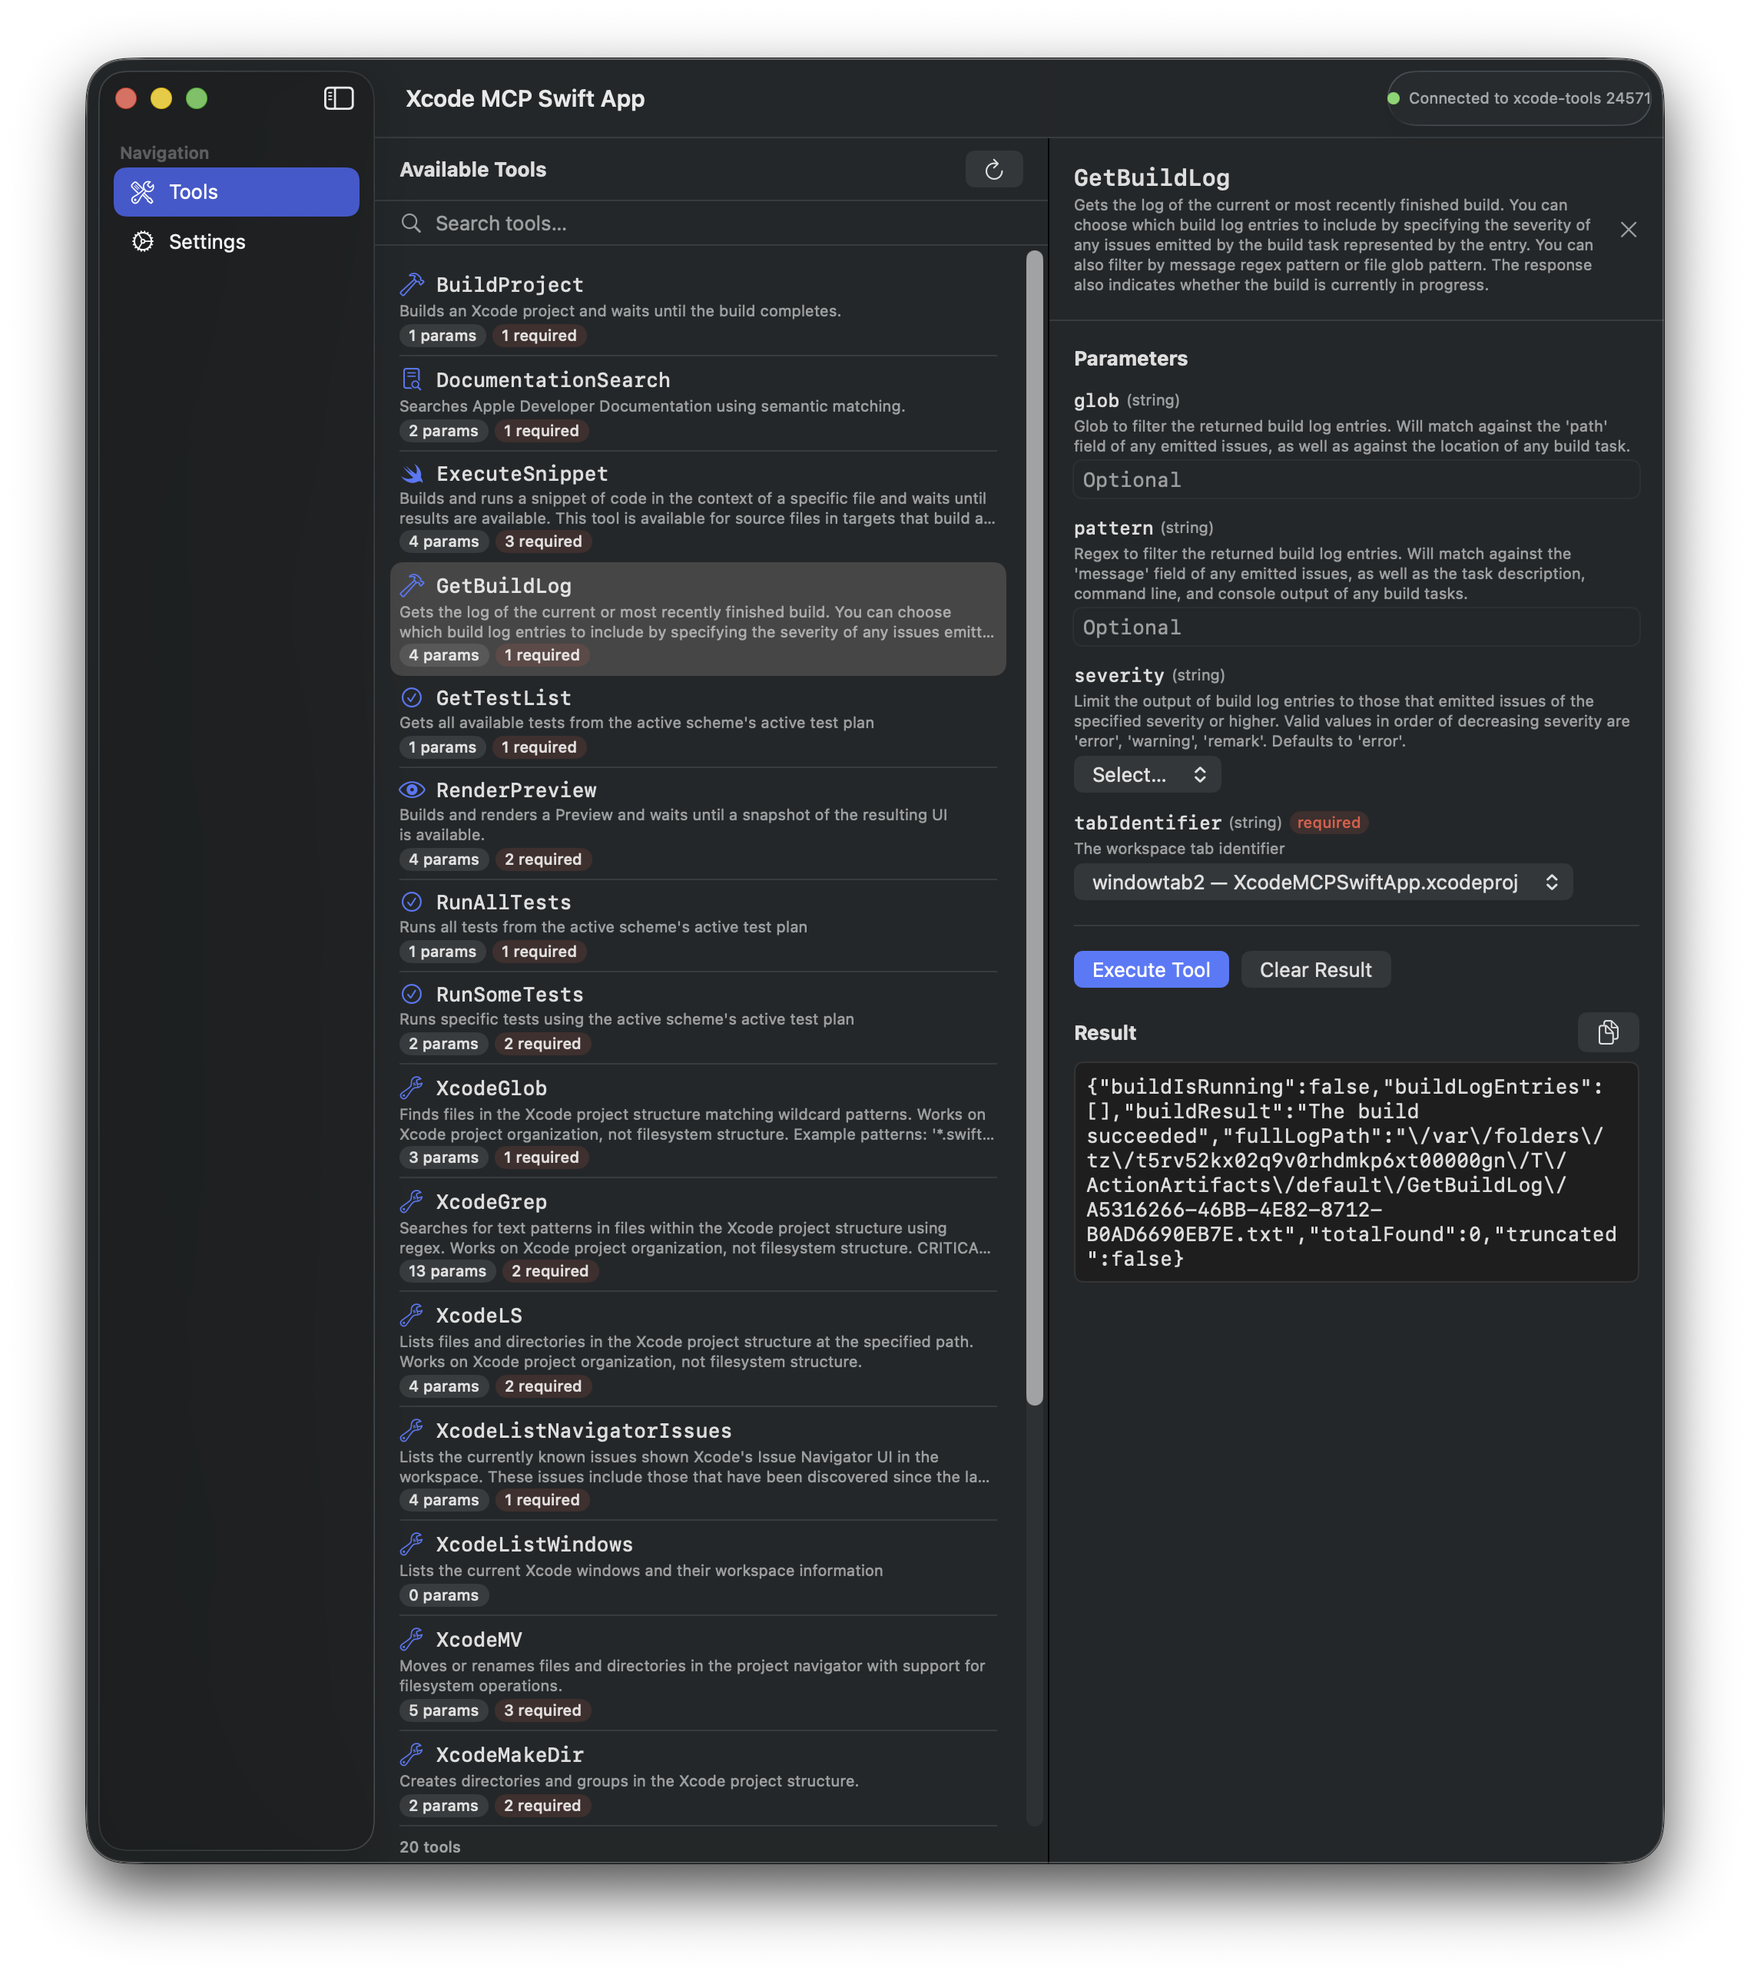
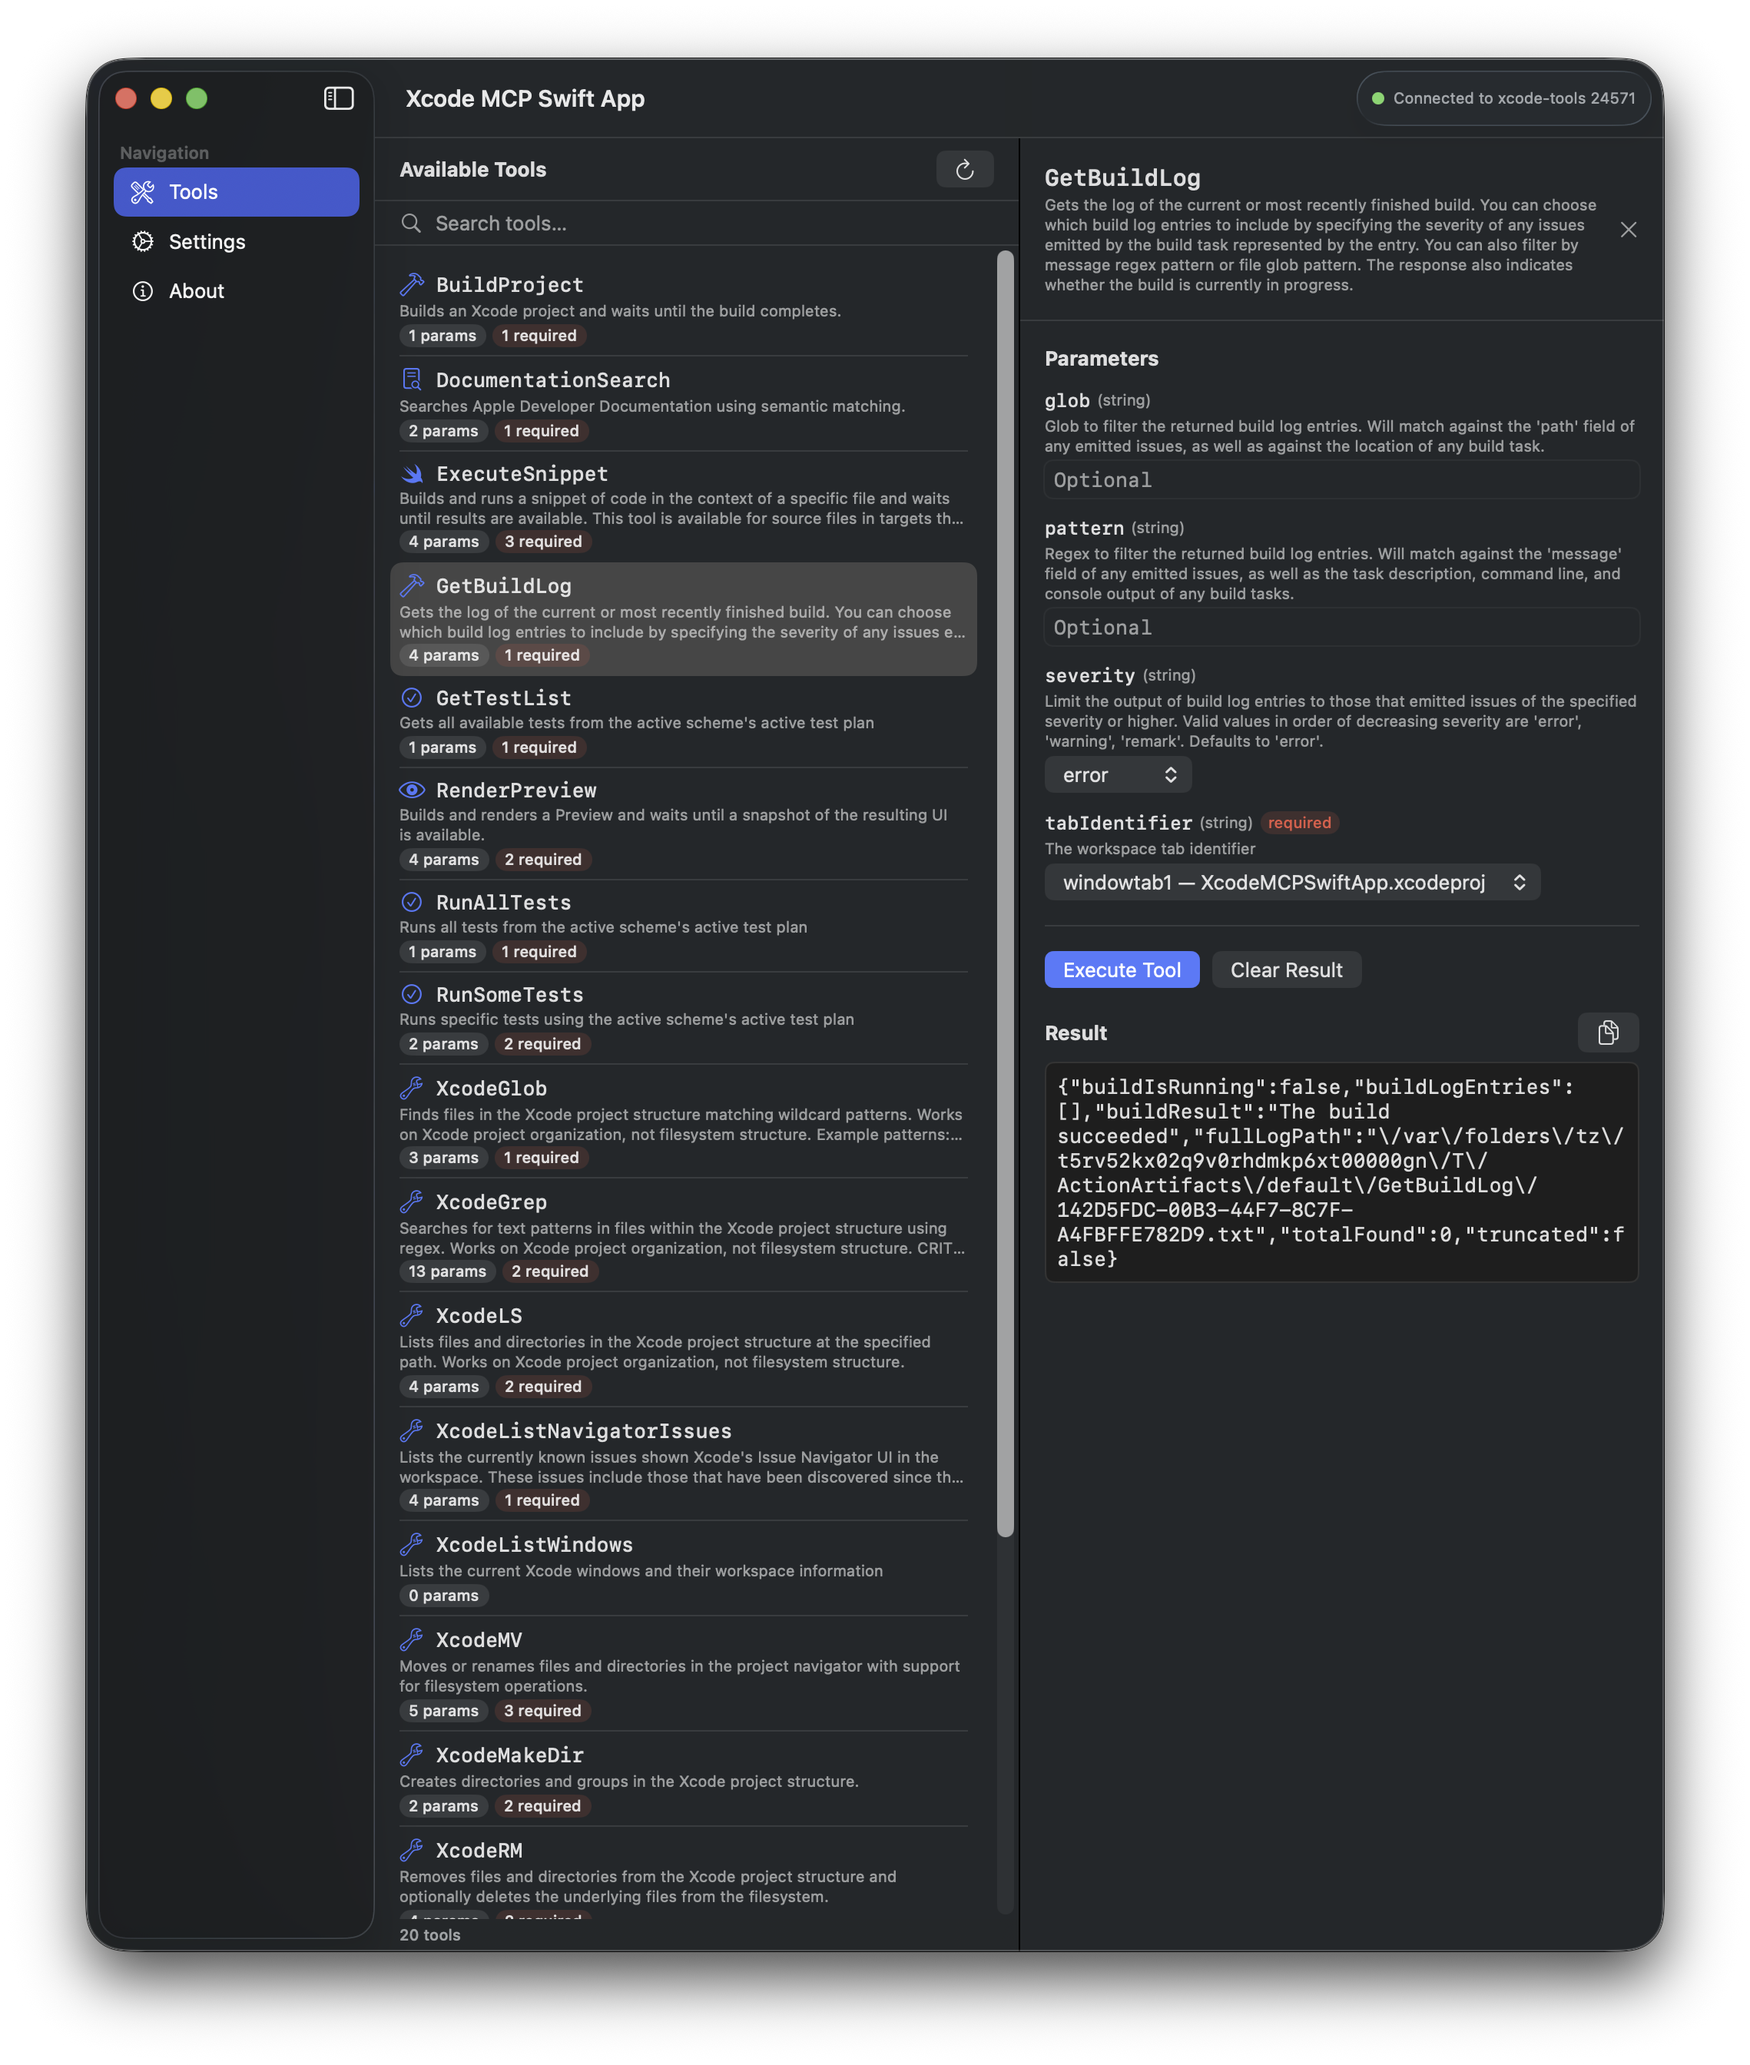
added about view

Changed region(s): [[0.0623, 0.0311, 0.935, 0.9635], [0.0623, 0.0311, 0.187, 0.1554], [0.7792, 0.0311, 0.935, 0.0622]]

diff --git a/Sources/XcodeMCPSwiftApp/Views/AboutView.swift b/Sources/XcodeMCPSwiftApp/Views/AboutView.swift
@@ -1,0 +1,86 @@
+//
+//  AboutView.swift
+//  XcodeMCPSwiftApp
+//
+//  Created by Anton Gregorn on 7. 2. 26.
+//
+//  MIT License
+//
+//  Copyright © 2026 Anton Gregorn. All rights reserved.
+//
+//  Permission is hereby granted, free of charge, to any person obtaining a copy
+//  of this software and associated documentation files (the "Software"), to deal
+//  in the Software without restriction, including without limitation the rights
+//  to use, copy, modify, merge, publish, distribute, sublicense, and/or sell
+//  copies of the Software, and to permit persons to whom the Software is
+//  furnished to do so, subject to the following conditions:
+//
+//  The above copyright notice and this permission notice shall be included in all
+//  copies or substantial portions of the Software.
+//
+//  THE SOFTWARE IS PROVIDED "AS IS", WITHOUT WARRANTY OF ANY KIND, EXPRESS OR
+//  IMPLIED, INCLUDING BUT NOT LIMITED TO THE WARRANTIES OF MERCHANTABILITY,
+//  FITNESS FOR A PARTICULAR PURPOSE AND NONINFRINGEMENT. IN NO EVENT SHALL THE
+//  AUTHORS OR COPYRIGHT HOLDERS BE LIABLE FOR ANY CLAIM, DAMAGES OR OTHER
+//  LIABILITY, WHETHER IN AN ACTION OF CONTRACT, TORT OR OTHERWISE, ARISING FROM,
+//  OUT OF OR IN CONNECTION WITH THE SOFTWARE OR THE USE OR OTHER DEALINGS IN THE
+//  SOFTWARE.
+//
+
+import SwiftUI
+
+struct AboutView: View {
+    var body: some View {
+        VStack(spacing: 20) {
+            Spacer()
+
+            // App Icon
+            Image("AppIcon")
+                .resizable()
+                .frame(width: 128, height: 128)
+                .clipShape(RoundedRectangle(cornerRadius: 24, style: .continuous))
+                .shadow(color: .black.opacity(0.2), radius: 8, y: 4)
+
+            // App Name
+            Text("Xcode MCP Swift App")
+                .font(.title)
+                .fontWeight(.bold)
+
+            // Version
+            Text("Version 1.0")
+                .font(.title3)
+                .foregroundStyle(.secondary)
+
+            Divider()
+                .frame(maxWidth: 300)
+
+            // Author
+            VStack(spacing: 4) {
+                Text("Created by")
+                    .font(.subheadline)
+                    .foregroundStyle(.secondary)
+                Text("Anton Gregorn")
+                    .font(.headline)
+                Link("@renderplace", destination: URL(string: "https://x.com/renderplace")!)
+                    .font(.subheadline)
+            }
+
+            Divider()
+                .frame(maxWidth: 300)
+
+            // License
+            VStack(spacing: 4) {
+                Text("Licensed under the MIT License")
+                    .font(.subheadline)
+                    .foregroundStyle(.secondary)
+                Text("Copyright © 2026 Anton Gregorn")
+                    .font(.caption)
+                    .foregroundStyle(.tertiary)
+            }
+
+            Spacer()
+        }
+        .frame(maxWidth: .infinity, maxHeight: .infinity)
+        .padding()
+    }
+}

diff --git a/Sources/XcodeMCPSwiftApp/Views/AppView.swift b/Sources/XcodeMCPSwiftApp/Views/AppView.swift
@@ -62,6 +62,9 @@ private struct SidebarView: View {
 
                 Label("Settings", systemImage: "gear")
                     .tag(AppFeature.State.Tab.settings)
+
+                Label("About", systemImage: "info.circle")
+                    .tag(AppFeature.State.Tab.about)
             }
         }
         .listStyle(.sidebar)
@@ -80,6 +83,8 @@ private struct DetailView: View {
             ToolsPanel(store: store)
         case .settings:
             SettingsPanel(store: store.scope(state: \.bridge, action: \.bridge))
+        case .about:
+            AboutView()
         }
     }
 }
@@ -119,6 +124,8 @@ private struct ConnectionIndicator: View {
                 .font(.caption)
                 .foregroundStyle(.secondary)
         }
+        .padding(.horizontal, 10)
+        .padding(.vertical, 4)
     }
 }
 

diff --git a/Sources/XcodeMCPSwiftApp/Features/AppFeature.swift b/Sources/XcodeMCPSwiftApp/Features/AppFeature.swift
@@ -124,6 +124,7 @@ struct AppFeature {
         enum Tab: String, CaseIterable, Equatable {
             case tools = "Tools"
             case settings = "Settings"
+            case about = "About"
         }
     }
 
